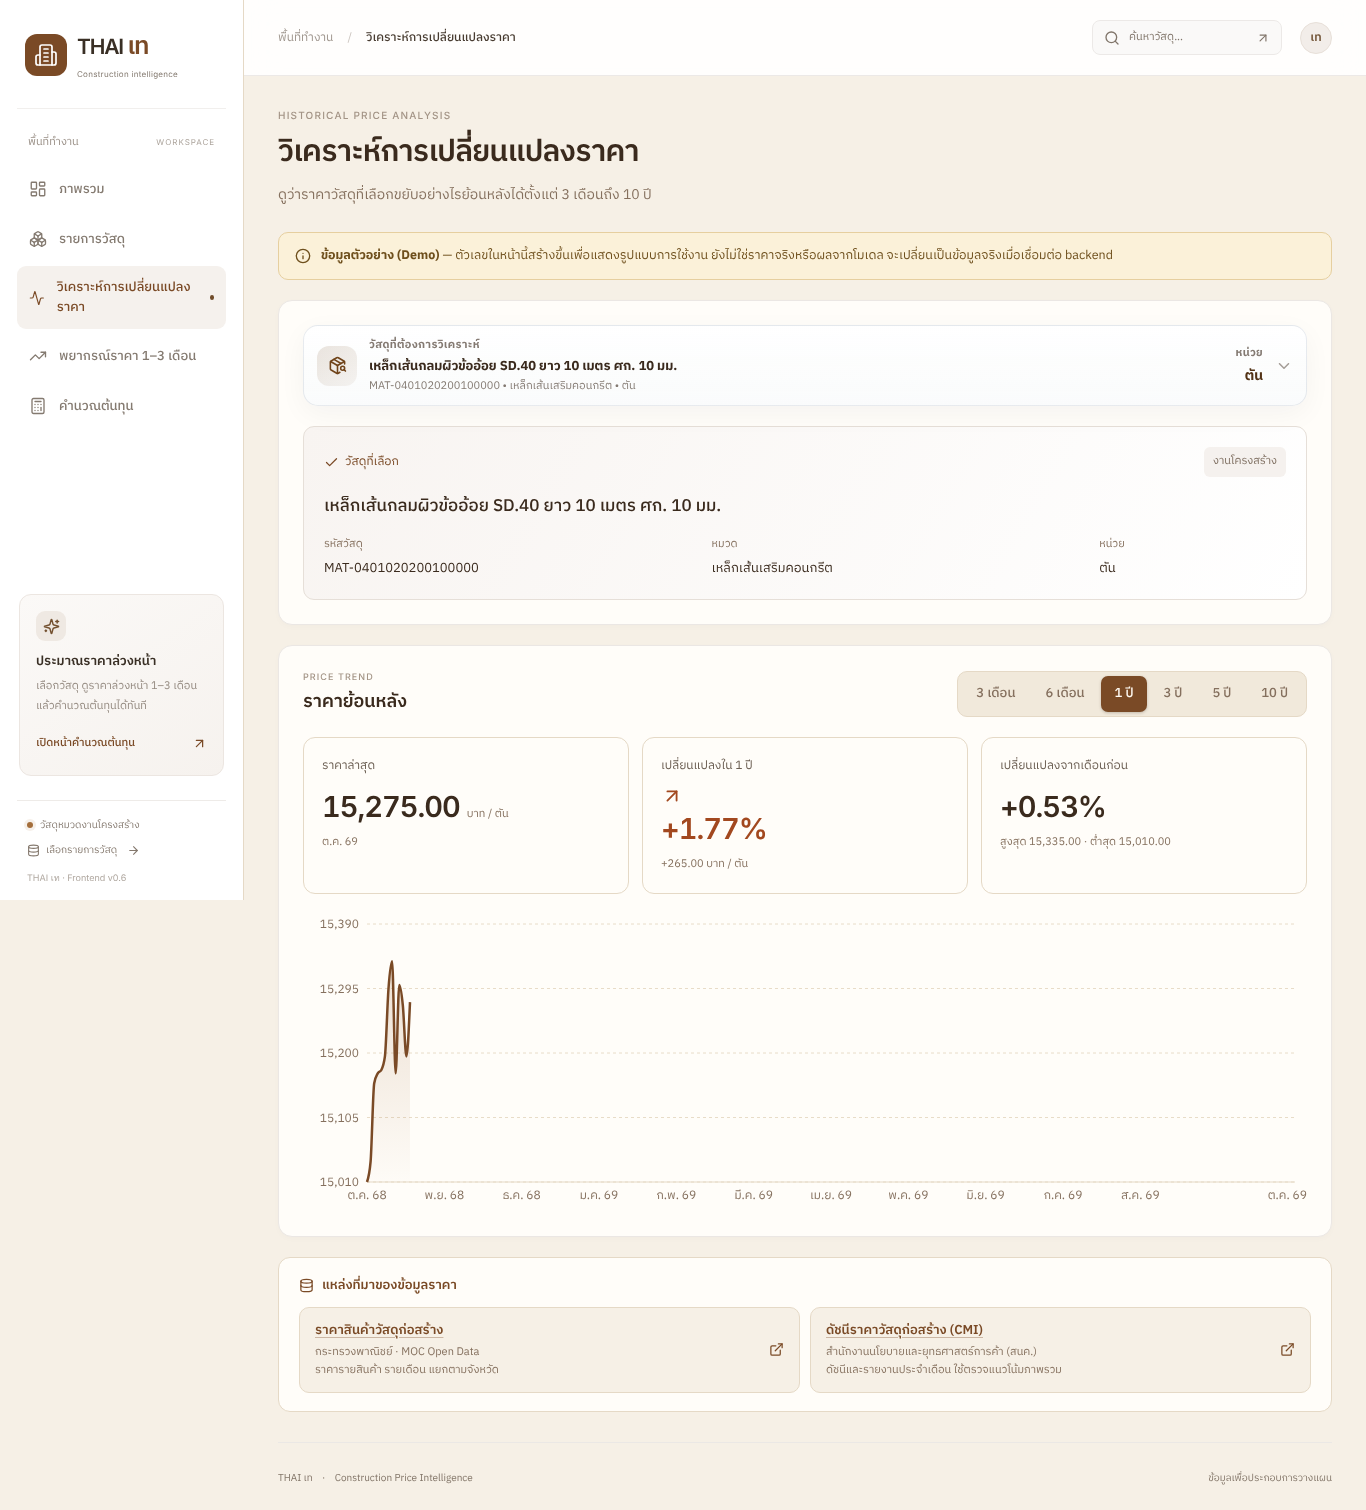
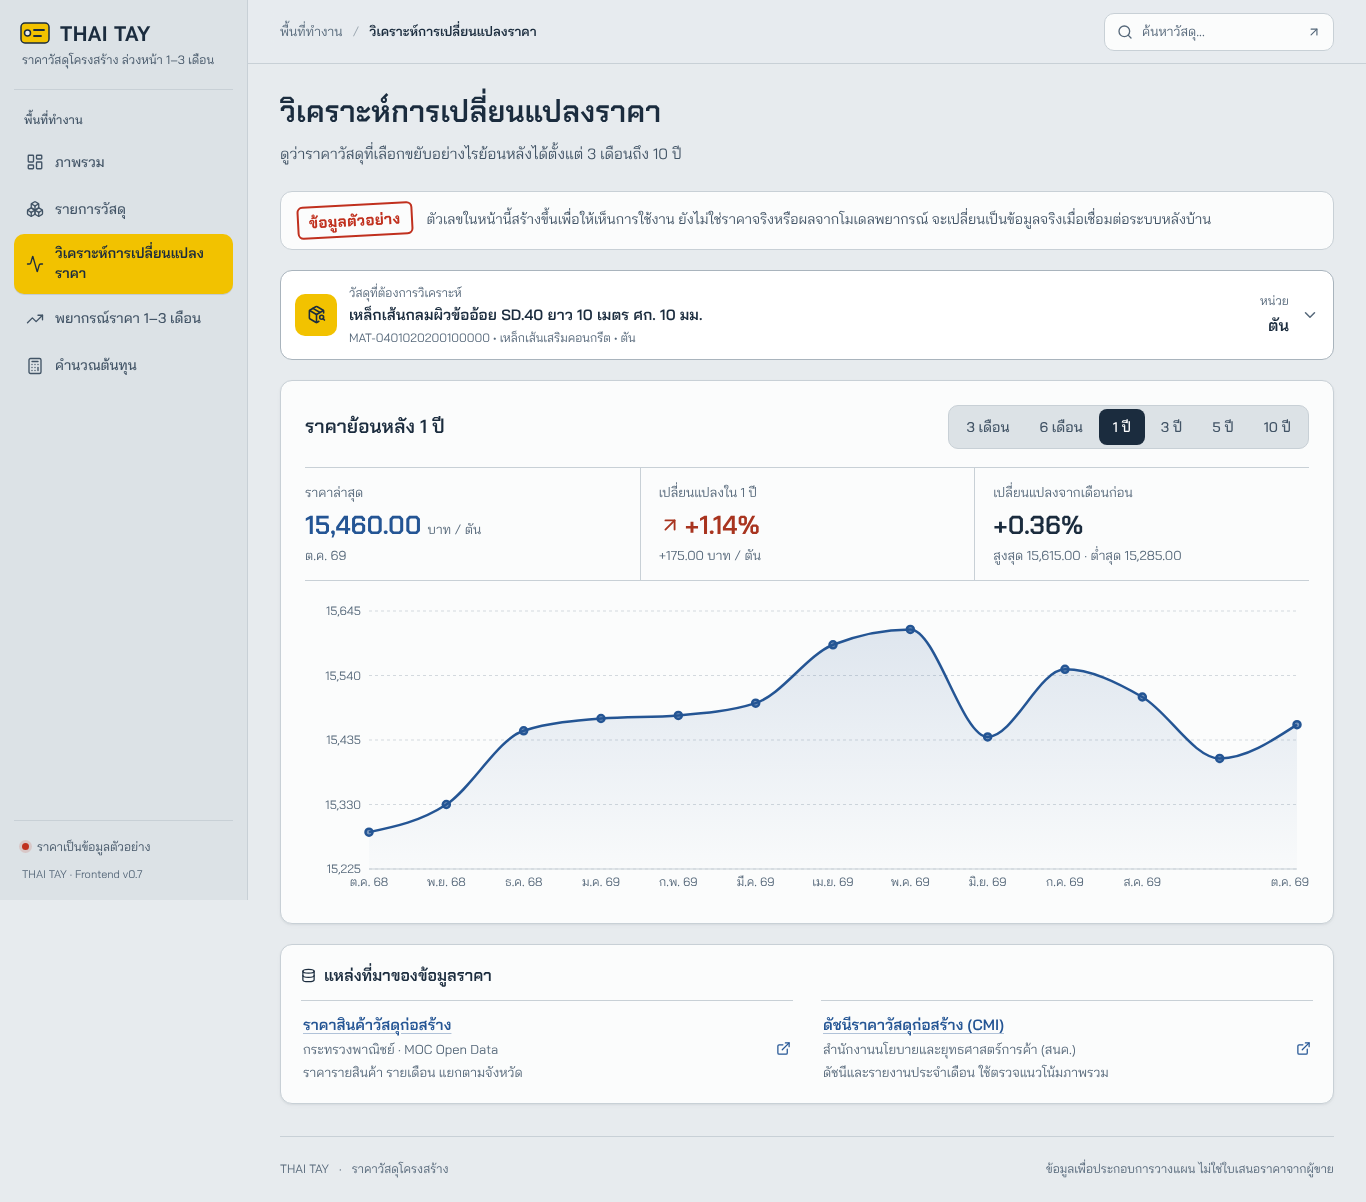
Refresh preview screenshots and verification for v0.7
Claude-Session: https://claude.ai/code/session_01PZGcVyYfXFNvLBhXnb2rxj

diff --git a/preview/verification.md b/preview/verification.md
@@ -1,23 +1,25 @@
-# ผลตรวจ THAI เท Frontend v0.6
+# ผลตรวจ THAI TAY Frontend v0.7
 
 - `npm run build`: ผ่าน TypeScript และ Vite build
 - Catalog: วัสดุโครงสร้าง 287 รายการใน 9 หมวด ไม่มีฟิลด์ราคาใน catalog (`frontend-catalog-results.json`)
-- ข้อมูลราคาในหน้าวิเคราะห์ พยากรณ์ และคำนวณต้นทุนเป็นข้อมูลตัวอย่าง (Demo) จาก `priceService.ts` และมีแถบเตือนในหน้า
-- ไม่เปิดหน้าล้นแนวนอนทุกหน้า (หน้าแรก ภาพรวม รายการวัสดุ วิเคราะห์ พยากรณ์ คำนวณต้นทุน) ที่ 1440, 1024, 768, 390 และ 320 px
+- ราคาในหน้าแรก ภาพรวม วิเคราะห์ พยากรณ์ และคำนวณต้นทุนเป็นข้อมูลตัวอย่าง (Demo) มีตราประทับ/แถบเตือนทุกหน้า
+- ราคาเดือนเดียวกันของวัสดุเดียวกันตรงกันทุกหน้าและทุกช่วงเวลา (ตรวจ: หน้าแรก ภาพรวม วิเคราะห์ 3 เดือน / 1 ปี / 10 ปี ได้ค่าเดียวกัน) และราคาคาดการณ์ต่อจากราคาล่าสุด
+- ไม่มีหน้าล้นแนวนอนทุกหน้าที่ 320, 390, 768, 1024, 1280 และ 1440 px
 - Browser ไม่พบ JS error และไม่มี request ไปบริการภายนอก
-- หน้าแรก: เมนูไม่ทับกันทุกขนาดจอ เมนูมือถือเปิด/ปิดได้และปิดด้วย Esc ปุ่มและลิงก์ไปหน้าที่ถูกต้อง
-- กดหมวดจากภาพรวมเปิดรายการวัสดุที่กรองหมวดนั้น
-- วัสดุที่เลือกตามไปหน้าพยากรณ์ → วิเคราะห์ → คำนวณต้นทุน และรายการในใบประมาณราคาอยู่ครบเมื่อเปลี่ยนหน้า
-- Sidebar มือถือเปิดได้และปิดด้วย Esc, กดโลโก้กลับหน้าแรก, hash ที่ไม่รู้จักเปิดหน้าภาพรวม
-- CSS cleanup (ลบ declaration ที่ถูกทับและ rule ที่ไม่มี class ในโค้ด): ภาพหน้าจอ 33 ภาพ (6 หน้า × 5 ขนาดจอ + sidebar มือถือ) ก่อนและหลังแก้ตรงกันทุก pixel
+- หน้าแรก: เลือกวัสดุบนป้ายแล้วตัวเลขเปลี่ยนตาม วัสดุที่เลือกตามไปหน้าพยากรณ์และคำนวณต้นทุน พลิกป้ายด้วยคีย์บอร์ดได้ (focus ย้ายไปด้านหลัง ด้านหน้าถูก inert) ตัวเลือกวัสดุบนมือถือเปิดเต็มจอ
+- พื้นที่ทำงาน: ป้าย 1/2/3 เดือนเลือกช่วงในกราฟได้, การ์ดหมวดเปิดรายการที่กรองแล้ว, ชิป "ทุกหมวด" ล้างตัวกรอง, กดโลโก้กลับหน้าแรก, hash ที่ไม่รู้จักเปิดภาพรวม, sidebar มือถือปิดด้วย Esc
+- สีทุกคู่ที่ใช้ผ่าน contrast WCAG AA (ตัวอักษรปกติ ≥ 4.5:1)
+- ตัวตรวจจับปัญหาการออกแบบ (impeccable detect) ไม่พบปัญหา
+- รีวิวงานออกแบบโดยผู้ตรวจอิสระ 3 รอบ: รอบแรก "fix" 8 ข้อ, รอบสอง แก้ครบบางส่วน + 3 ปัญหาใหม่, รอบสาม "ship" (ขอบเขต: ข้อที่ให้คะแนน)
 
 รายการตรวจทั้งหมด: `frontend-ui-results.json`
 
-ภาพตัวอย่าง (ถ่ายจาก build v0.6):
+ภาพตัวอย่าง (ถ่ายจาก build v0.7):
 
 | ไฟล์ | หน้า | ความกว้าง |
 |---|---|---|
-| `landing-desktop.png` / `landing-mobile.png` | หน้าแรก | 1440 / 390 |
+| `landing-desktop.png` / `landing-mobile.png` | หน้าแรก (ทั้งหน้า / จอแรกบนมือถือ) | 1440 / 390 |
+| `landing-tag-back.png` | ด้านหลังป้าย (ที่มาของตัวเลข) | 1440 |
 | `desktop.png` / `overview.png` | ภาพรวม | 1440 / 1366 |
 | `tablet.png` / `mobile.png` | ภาพรวม | 768 / 390 |
 | `materials.png` | รายการวัสดุ | 1440 |

diff --git a/CHANGES_v0.7.md b/CHANGES_v0.7.md
@@ -23,6 +23,15 @@
 - แถบบน: เอาวงกลม "เท" ที่ไม่มีหน้าที่ออก
 - หน้าต้อนรับ "hello" เปลี่ยนเป็นธีมใหม่
 
+## แก้จากการรีวิวงานออกแบบ
+- ข้อมูลตัวอย่าง: ราคาเดือนเดียวกันตรงกันทุกหน้าและทุกช่วงเวลา (เดิมหน้าวิเคราะห์ได้ราคาล่าสุดต่างจากหน้าอื่น) และราคาคาดการณ์ต่อจากราคาล่าสุดจริง
+- ป้ายหน้าแรกเป็นสีเรียบ ไม่มีเงานูนปลอม ห่วงตาไก่วาดเป็น SVG ราคาคาดการณ์บนป้ายใช้สีบรอนซ์เข้มที่อ่านได้บนพื้นเหลือง
+- ด้านหลังป้ายแสดงเส้นทางราคาของวัสดุที่เลือก: ราคาจริง 3 เดือน → ราคาคาดการณ์ 3 เดือนพร้อมช่วง
+- ตัวเลือกวัสดุแสดงชื่อ 2 บรรทัด (เห็นขนาด/ความยาว) และรหัส 16 หลักไม่ถูกตัด
+- บนมือถือ ตราประทับ "ข้อมูลตัวอย่าง" อยู่ในจอเดียวกับราคาเสมอ และป้ายสูงตามด้านที่แสดงอยู่
+- ไม่มีกล่องซ้อนกล่องในพื้นที่ทำงาน หน้าคำนวณต้นทุน: ฝั่งกรอกข้อมูลวางบนพื้น ใบประมาณราคาเป็นแผ่นเดียว
+- รูห่วงตาไก่มีเฉพาะสิ่งที่เป็นป้ายจริง (ป้าย 1/2/3 เดือน ป้ายวัสดุ) กรอบทั่วไปไม่มี จะได้ไม่ดูเหมือนปุ่มกด
+
 ## อื่น ๆ
 - โลโก้: `src/components/ui/brand-mark.tsx` เป็นสัญลักษณ์ชั่วคราว เปลี่ยนเป็นโลโก้จริงที่ไฟล์นี้ที่เดียว
 - ลบ `hero-3.tsx` และรูป `public/images/app-preview.jpg` ที่ไม่ได้ใช้แล้ว
